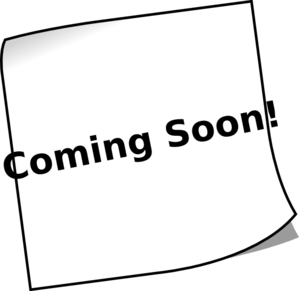
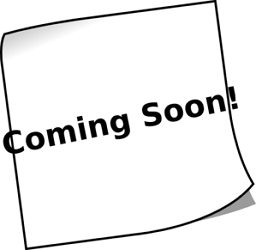
Thumbnail changes

Changed region(s): [[0.9688, 0.7, 1.0, 0.756], [0.5625, 0.476, 0.5938, 0.504], [0.0312, 0.56, 0.0625, 0.588]]

diff --git a/maps.html b/maps.html
@@ -51,42 +51,46 @@
 							<div class="inner">
 
 				<!-- Links to specific projects -->
-						<div class="container">
-							<div class="row">
-								<div class="col-md-4">
-									<div class="thumbnail portfolio-thumbnail">
-										<a href="simple_google_map.html" >
-											<img src="images/Albania_Flag.jpg">
-								Simple Google Map
-										</a>
+							<div class="container">
+								<div class="row">
+									<div class="col-md-4">
+										<div class="thumbnail portfolio-thumbnail">
+											<a href="simple_google_map.html" >
+												<img src="images/Albania_Flag.jpg">
+												<br>
+									Simple Google Map
+											</a>
+										</div>
 									</div>
-								</div>
-								<div class="col-md-4">
-									<div class="thumbnail portfolio-thumbnail">
-										<a href="choropleth_leaflet_map.html">
-											<img src="images/coming-soon-md.png">
-								Choropleth Leaflet Map
-										</a>
+									<div class="col-md-4">
+										<div class="thumbnail portfolio-thumbnail">
+											<a href="choropleth_leaflet_map.html">
+												<img src="images/coming-soon-md.png">
+												<br>
+									Choropleth Leaflet Map
+											</a>
+										</div>
 									</div>
-								</div>
-								<div class="col-md-4">
-									<div class="thumbnail portfolio-thumbnail">
-										<a href="esri_server.html">
-											<img src="images/coming-soon-md.png">
-								Esri Server
-										</a>
+									<div class="col-md-4">
+										<div class="thumbnail portfolio-thumbnail">
+											<a href="esri_server.html">
+												<img src="images/coming-soon-md.png">
+												<br>
+									Esri Server
+											</a>
+										</div>
 									</div>
-								</div>
-								<div class="col-md-4">
-									<div class="thumbnail portfolio-thumbnail">
-										<a href="urban_planning.html">
-											<img src="images/coming-soon-md.png">
-								Urban Planning
-										</a>
+									<div class="col-md-4">
+										<div class="thumbnail portfolio-thumbnail">
+											<a href="urban_planning.html">
+												<img src="images/coming-soon-md.png">
+												<br>
+									Urban Planning
+											</a>
+										</div>
 									</div>
 								</div>
 							</div>
-						</div>
 						</secion>
 					</article>
 

diff --git a/about.html b/about.html
@@ -45,7 +45,9 @@
 						</header>
 						<section class="wrapper style5">
 							<div class="inner">
-								<p>GIS first piqued my interest during my undergraduate studies, but my passion for it really began in 2016 when I spent most of the year travelling through developing countries. During my travels I discerned the need for data-driven solutions to transportation, housing, resource management, and nearly every other facet of development that we take for granted in the United States.<br><br>I earned my Bachelor's Degree from the University of Washington Tacoma in Sustainable Urban Development (2015) as well as the Urban Studies Director's Award for Academic Excellence for finishing first in my undergraduate program. Additionally, I earned a certificate in Geographic Information Systems (2017) from the University of Washington Tacoma. I am currently enrolled in the Master of Science in Geospatial Technologies program also at the University of Washington Tacoma.<br><br>My wife and I live in Tacoma, WA with our dog and four cats. We enjoy international travel and hope to someday become dual citizens of Albania and the United States.</p>
+								<p>GIS first piqued my interest during my undergraduate studies, but my passion for it really began in 2016 when I spent most of the year travelling through developing countries. During my travels I discerned the need for data-driven solutions to transportation, housing, resource management, and nearly every other facet of development that we take for granted in the United States.<br><br>I earned my Bachelor's Degree from the University of Washington Tacoma in Sustainable Urban Development (2015) as well as the Urban Studies Director's Award for Academic Excellence for finishing first in my undergraduate program. Additionally, I earned a certificate in Geographic Information Systems (2017) from the University of Washington Tacoma. I am currently enrolled in the Master of Science in Geospatial Technologies program also at the University of Washington Tacoma.<br><br>My wife and I live in Tacoma, WA with our dog and four cats. We enjoy international travel and hope to someday become dual citizens of Albania and the United States.
+									<br><img src="images/1802.jpg">
+								</p>
 							</div>
 						</section>
 					</article>

diff --git a/assets/css/mystyle.css b/assets/css/mystyle.css
@@ -6,6 +6,14 @@
 	margin-right: auto;
 }
 
+.about_image img {
+	display: flex;
+	align-items: center;
+	justify-content: center;
+	margin-left: auto;
+	margin-right: auto;
+}
+
 .container {
 		display: flex;
 		align-items: center;
@@ -23,18 +31,14 @@
 		color: #ffffff;
 		font: inherit;
 		position: relative;
-		width: 261.33px;
-		height: 261.33px;
-		padding: 5px;	
+		padding: 5px;
+		text-align: center;	
 }
 
-.portfolio-thumbnail img {
-  position: absolute;
-  left: 50%;
-  top: 50%;
-  height: 100%;
-  width: auto;
-  -webkit-transform: translate(-50%,-50%);
-      -ms-transform: translate(-50%,-50%);
-          transform: translate(-50%,-50%);
+.inner img {
+	display: flex;
+	align-items: center;
+	justify-content: center;
+	margin-left: auto;
+	margin-right: auto;
 }
